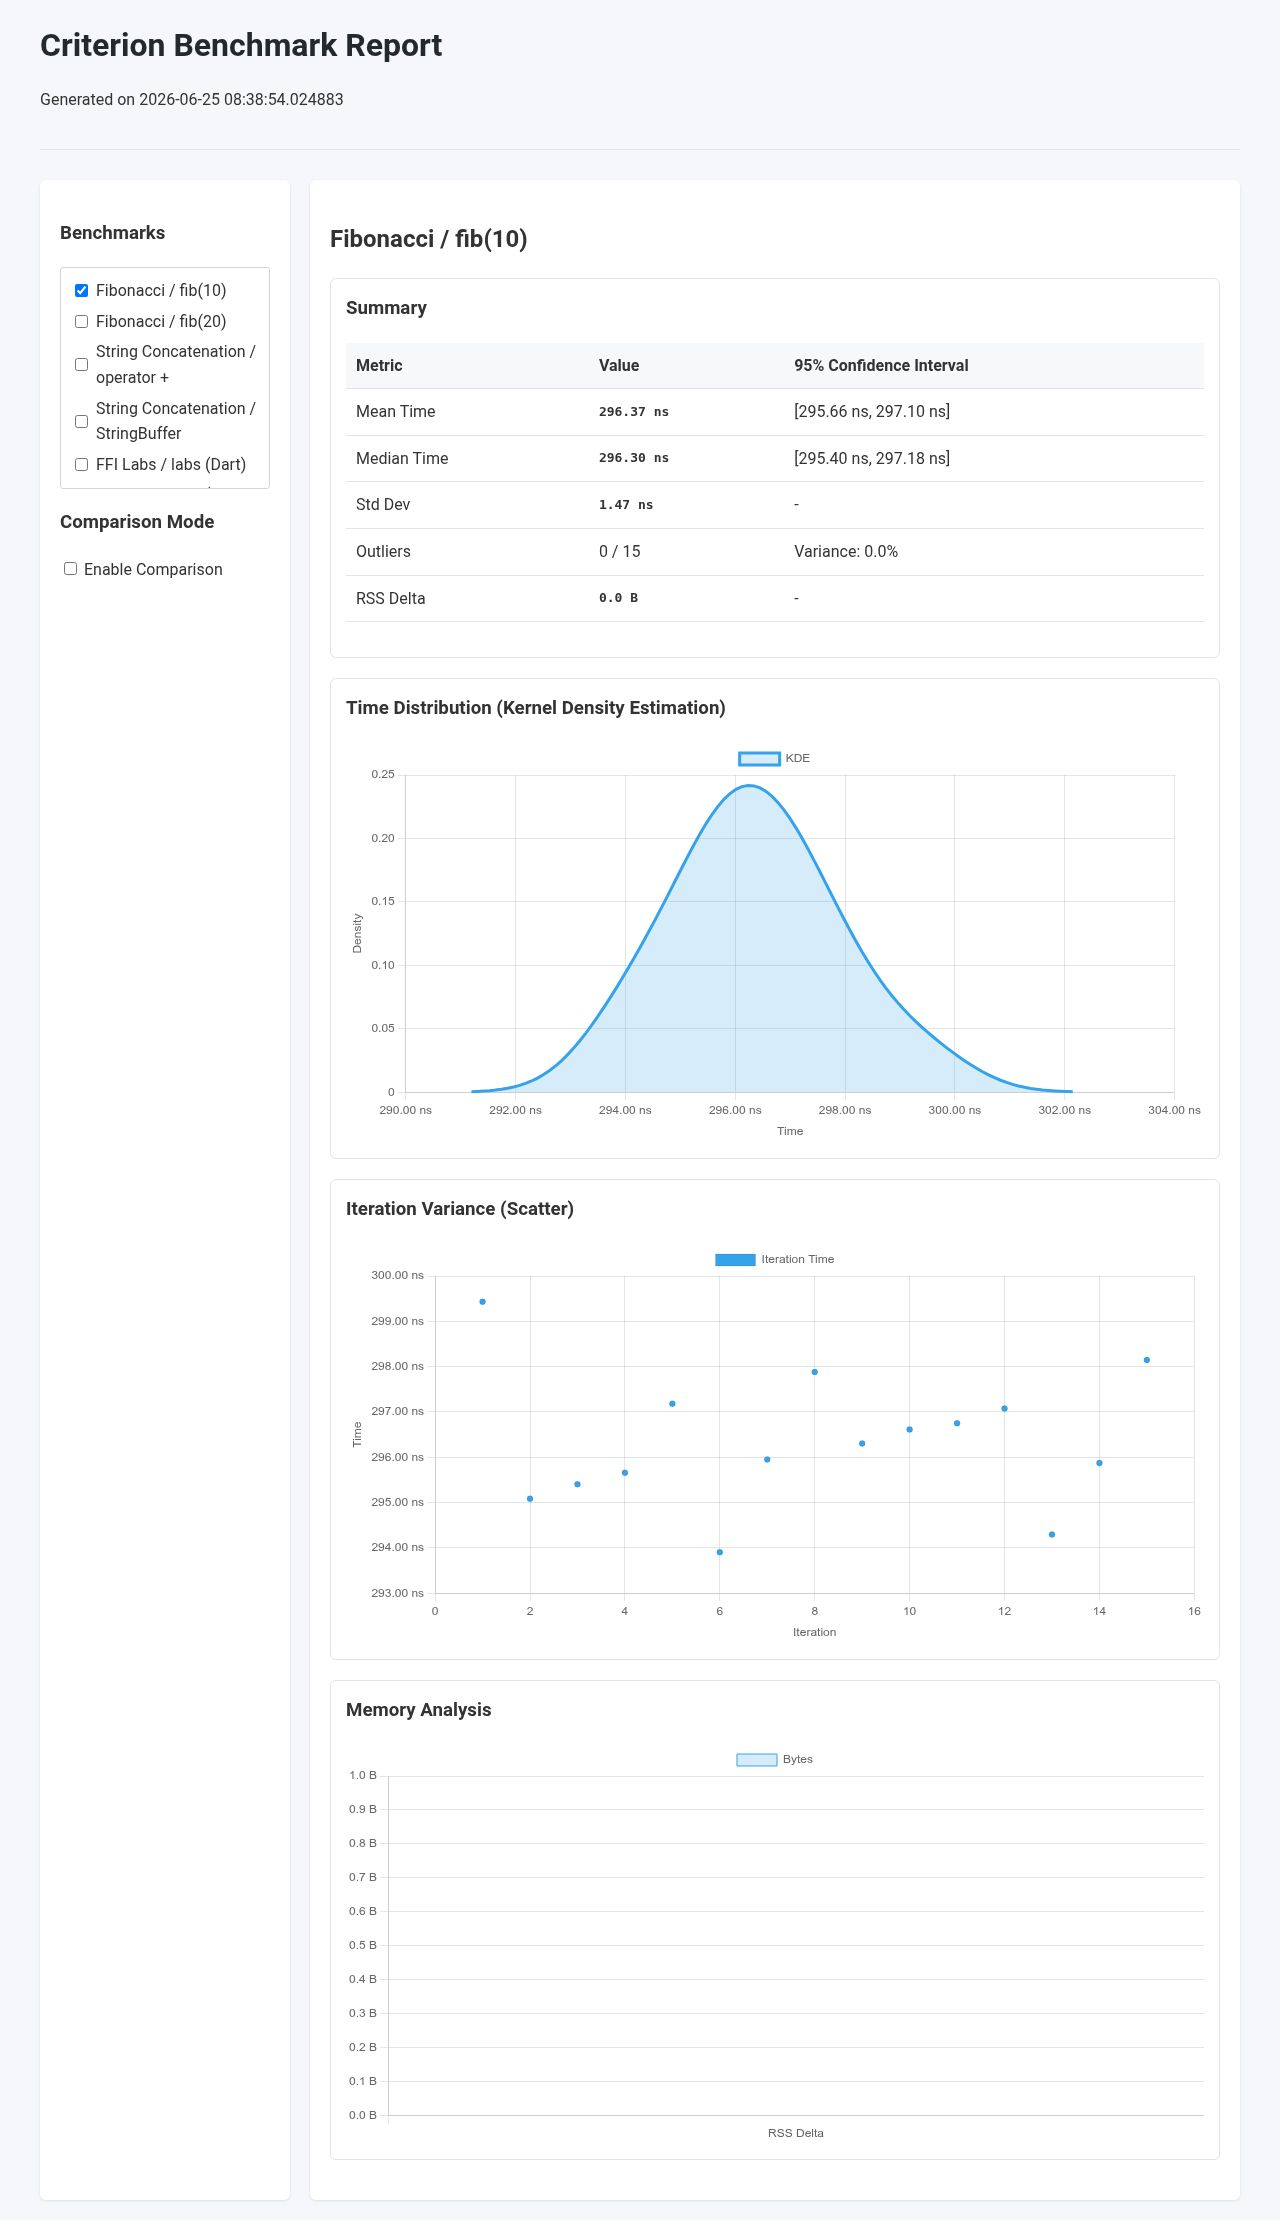
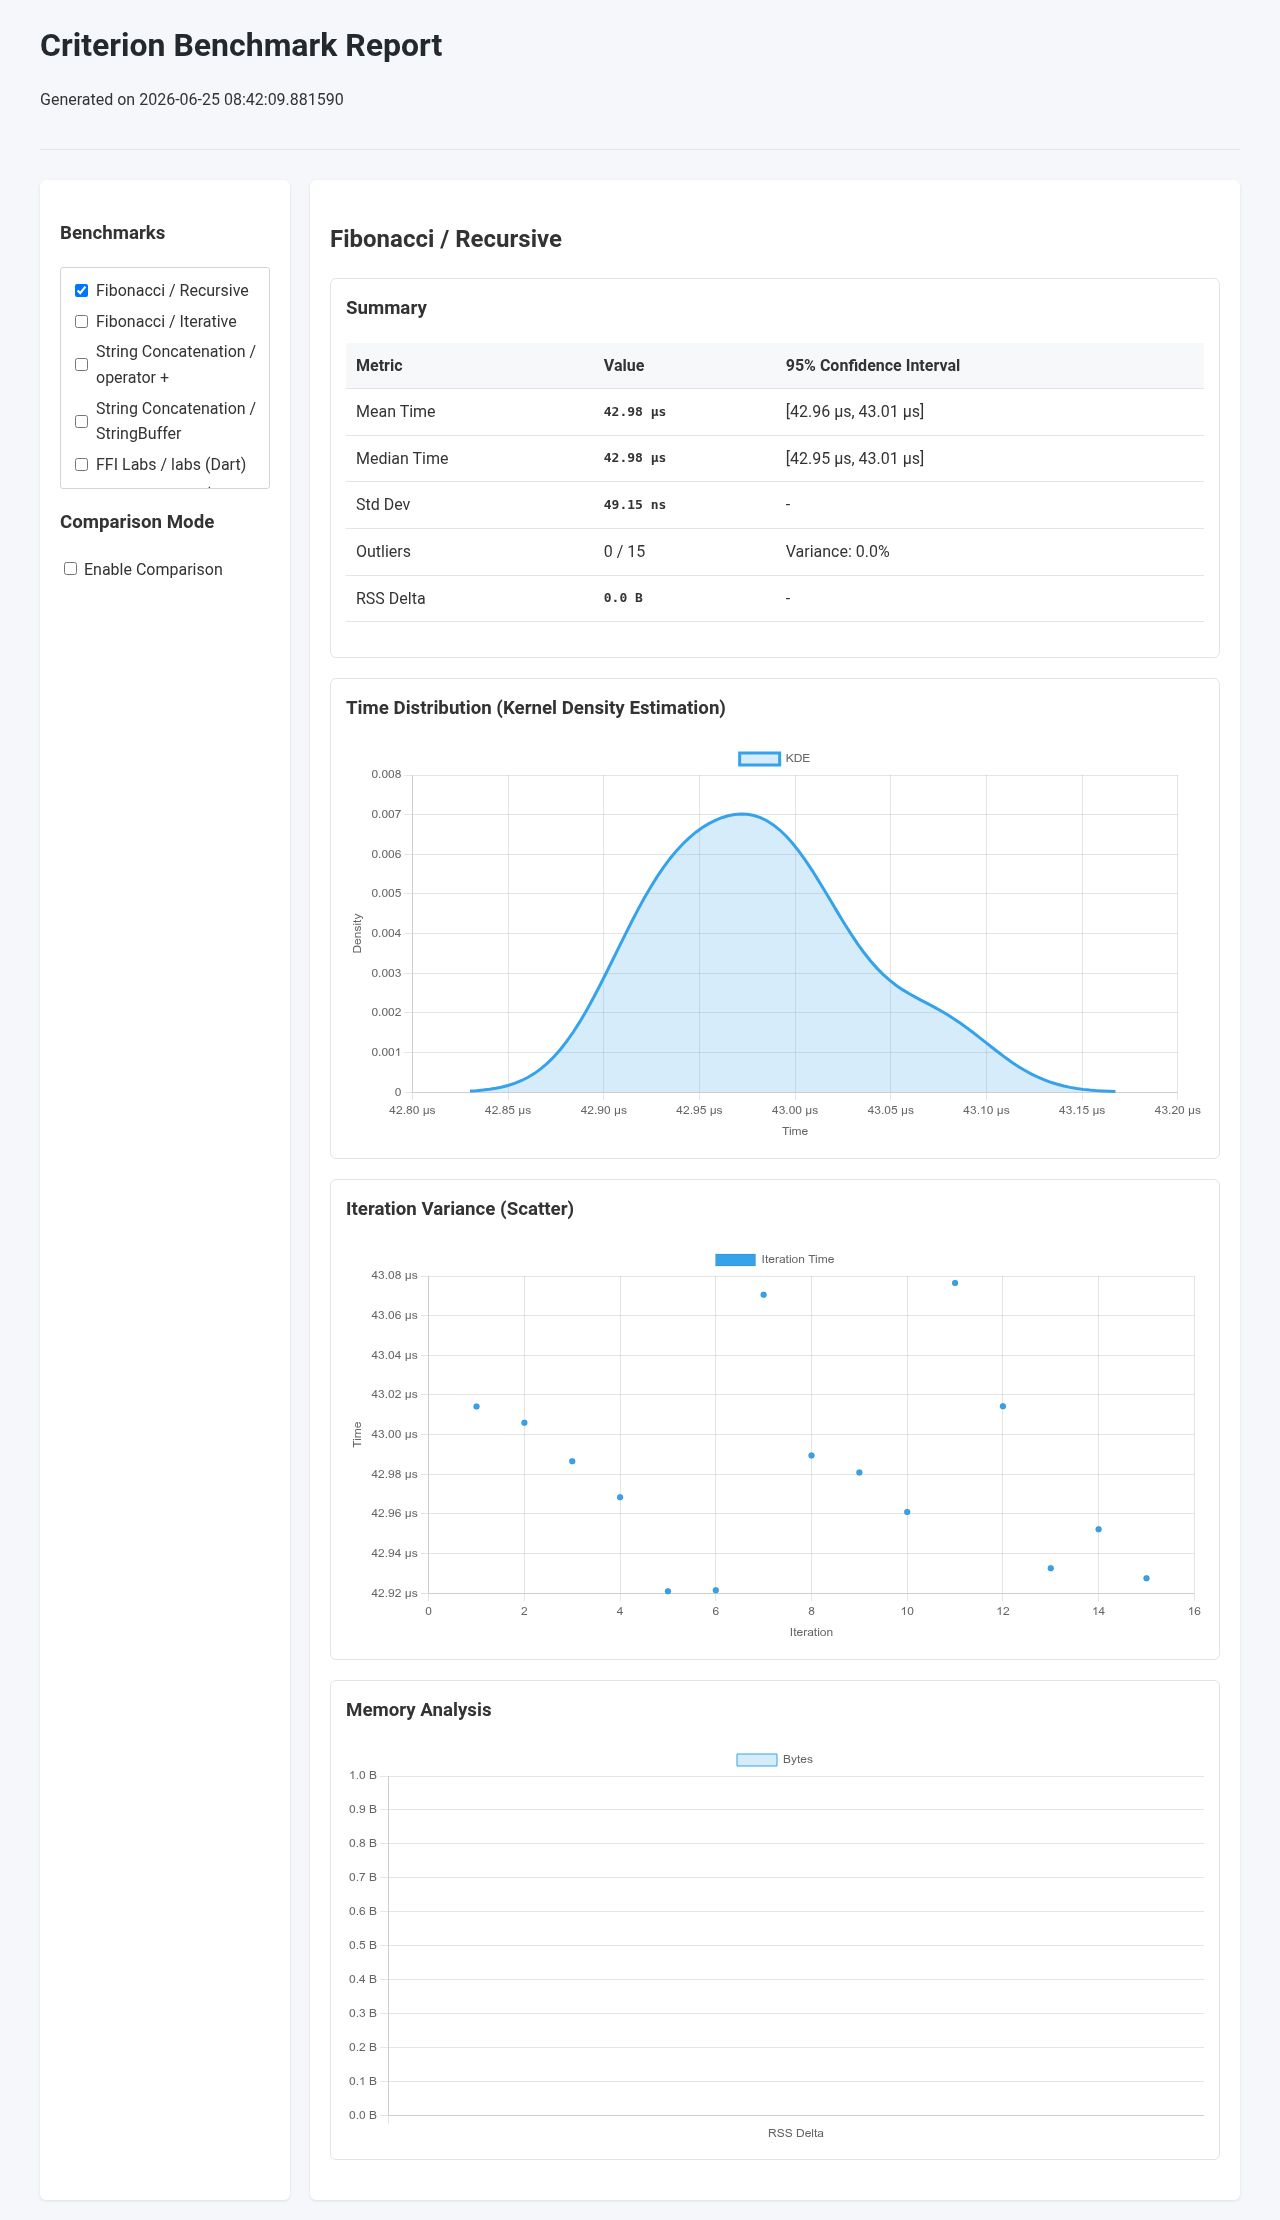
Update comparison example to use Recursive vs Iterative Fibonacci
- Update .gitignore to only ignore benchmark/report/ instead of the whole benchmark/ directory.
- Track benchmark/sample_suite.dart.
- Update benchmark/sample_suite.dart to compare recursive vs iterative Fibonacci implementations for N=20, providing a more interesting comparison result.
- Regenerate screenshots with the new comparison data.

TAG=agy
CONV=ce8380be-41c1-4e36-8eb9-576ba5bafe79

diff --git a/benchmark/sample_suite.dart b/benchmark/sample_suite.dart
@@ -1,0 +1,96 @@
+// Copyright 2026 Sigurd Meldgaard
+//
+// Licensed under the Apache License, Version 2.0 (the "License");
+// you may not use this file except in compliance with the License.
+// You may obtain a copy of the License at
+//
+//     http://www.apache.org/licenses/LICENSE-2.0
+//
+// Unless required by applicable law or agreed to in writing, software
+// distributed under the License is distributed on an "AS IS" BASIS,
+// WITHOUT WARRANTIES OR CONDITIONS OF ANY KIND, either express or implied.
+// See the License for the specific language governing permissions and
+// limitations under the License.
+
+import 'dart:ffi';
+import 'package:criterion/criterion.dart';
+import 'package:ffi/ffi.dart';
+
+int labsDart(int n) => n < 0 ? -n : n;
+
+@Native<Int64 Function(Int64)>(symbol: 'labs')
+external int labsNonLeaf(int j);
+
+@Native<Int64 Function(Int64)>(symbol: 'labs', isLeaf: true)
+external int labsLeaf(int j);
+
+@Native<UintPtr Function(Pointer<Char>)>(symbol: 'strlen', isLeaf: true)
+external int strlenLeaf(Pointer<Char> s);
+
+int fib(int n) {
+  if (n <= 1) return n;
+  return fib(n - 1) + fib(n - 2);
+}
+
+int fibIterative(int n) {
+  if (n <= 1) return n;
+  var a = 0;
+  var b = 1;
+  for (var i = 2; i <= n; i++) {
+    final temp = a + b;
+    a = b;
+    b = temp;
+  }
+  return b;
+}
+
+void main() async {
+  final str1000 = ('a' * 1000).toNativeUtf8();
+  final strEmpty = ''.toNativeUtf8();
+
+  try {
+    await criterion('Sample Suite', (c) {
+      c.group('Fibonacci', () {
+        c.bench('Recursive', () => fib(20));
+        c.bench('Iterative', () => fibIterative(20));
+      });
+
+      c.group('String Concatenation', () {
+        c.bench('operator +', () {
+          var s = '';
+          for (var i = 0; i < 100; i++) {
+            s += 'a';
+          }
+          if (s.isEmpty) throw StateError('must not be empty');
+        });
+        c.bench('StringBuffer', () {
+          final sb = StringBuffer();
+          for (var i = 0; i < 100; i++) {
+            sb.write('a');
+          }
+          final s = sb.toString();
+          if (s.isEmpty) throw StateError('must not be empty');
+        });
+      });
+
+      c.group('FFI Labs', () {
+        c.bench('labs (Dart)', () => labsDart(-100));
+        c.bench('labs (FFI Leaf)', () => labsLeaf(-100));
+        c.bench('labs (FFI Non-Leaf)', () => labsNonLeaf(-100));
+      });
+
+      c.bench(
+        'strlen (1000 chars)',
+        () {
+          strlenLeaf(str1000.cast<Char>());
+        },
+        noOp: () {
+          strlenLeaf(strEmpty.cast<Char>());
+        },
+      );
+    });
+  } finally {
+    calloc.free(str1000);
+    calloc.free(strEmpty);
+  }
+}